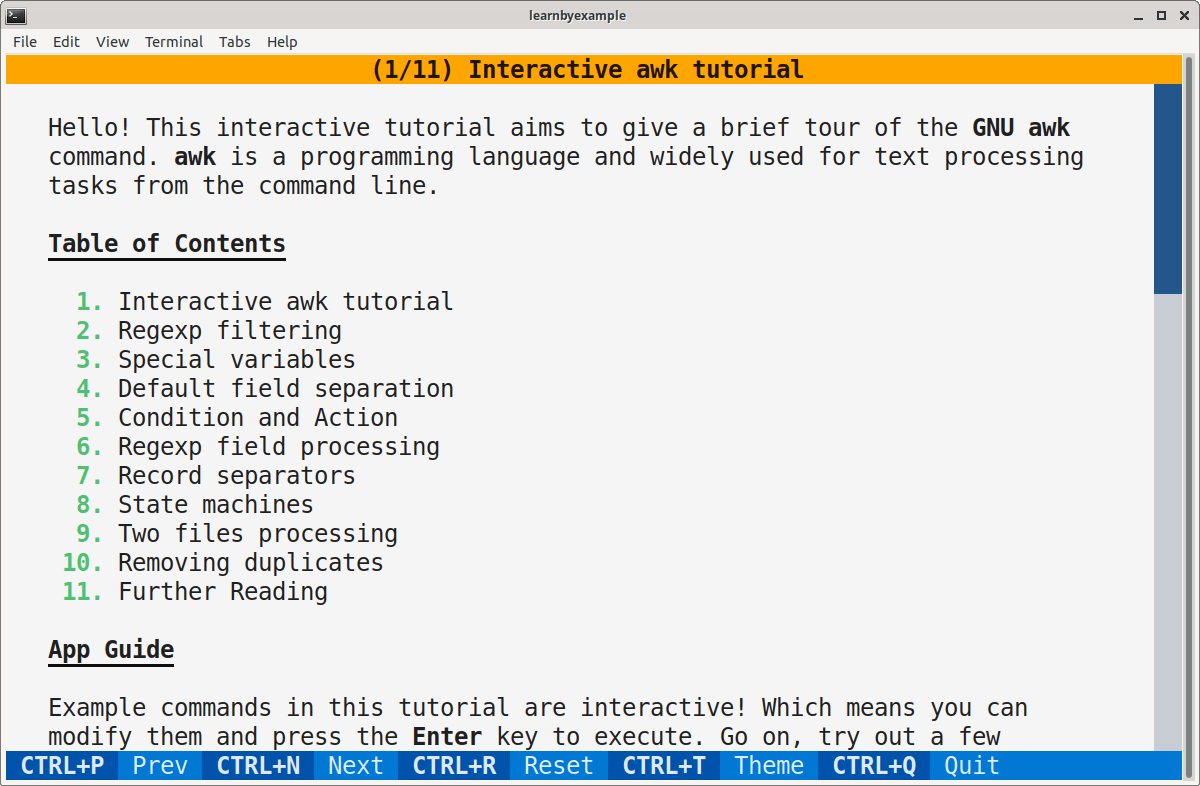
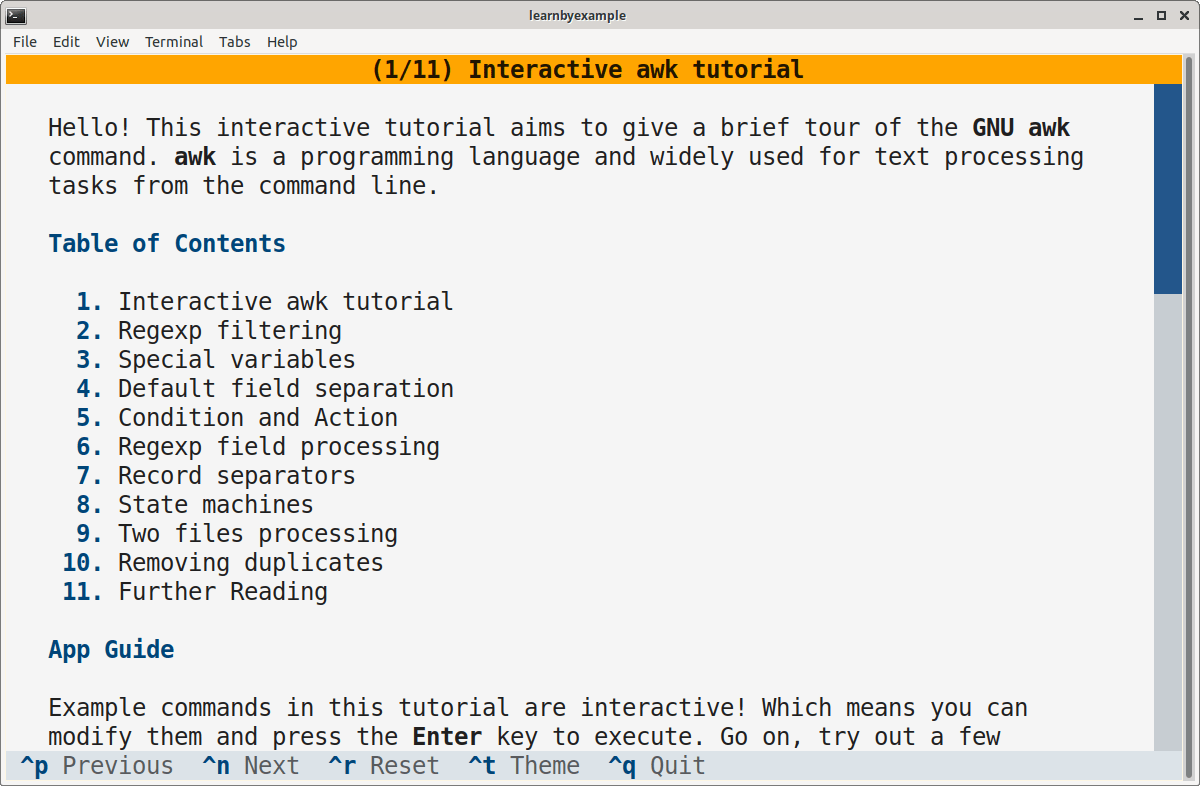
changed dynamic container code to not use mount

diff --git a/AwkTutorial/awk_tutorial.py b/AwkTutorial/awk_tutorial.py
@@ -13,7 +13,7 @@ SCRIPT_DIR = Path(__file__).parent.resolve()
 class AwkTutorialApp(App):
     CSS_PATH = SCRIPT_DIR.joinpath('awk_tutorial.css')
     BINDINGS = [
-        Binding('ctrl+p', 'previous', 'Prev', show=True),
+        Binding('ctrl+p', 'previous', 'Previous', show=True),
         Binding('ctrl+n', 'next', 'Next', show=True),
         Binding('ctrl+r', 'reset', 'Reset', show=True),
         ('ctrl+t', 'toggle_theme', 'Theme'),
@@ -68,44 +68,45 @@ class AwkTutorialApp(App):
 
     def setup_tutorial(self):
         self.v_tutorial.remove()
-        self.v_tutorial = VerticalScroll()
         block = False
         s = ''
         cnt = 0
         self.i_cmds = []
         self.l_cmd_outputs = []
+        tt_widgets = []
         with open(self.tutorial_files[self.idx]) as f:
             title = f'[b]({self.idx+1}/{self.max_idx+1}) {next(f)[2:-1]}'
             self.l_title.update(title)
             for line in f:
                 if line.startswith('```'):
                     if block:
-                        codeblock = Vertical(classes='codeblock')
+                        cb_widgets = []
                         for c in s.splitlines():
                             if c.startswith('#'):
-                                codeblock.mount(Label(c, classes='comment'))
+                                cb_widgets.append(Label(c, classes='comment'))
                             elif c.startswith('$ '):
                                 self.i_cmd = Input(classes='input',
                                                    name=str(cnt))
                                 self.l_cmd_output = Label(classes='cmd_output',
                                                           markup=False)
-                                codeblock.mount(self.i_cmd)
-                                codeblock.mount(self.l_cmd_output)
+                                cb_widgets.append(self.i_cmd)
+                                cb_widgets.append(self.l_cmd_output)
                                 self.i_cmds.append(self.i_cmd)
                                 self.l_cmd_outputs.append(self.l_cmd_output)
                                 self.set_cmd(c[2:])
                                 if cnt == 0:
                                     self.i_cmd.focus()
                                 cnt += 1
-                        self.v_tutorial.mount(codeblock)
+                        tt_widgets.append(Vertical(*cb_widgets, classes='codeblock'))
                     else:
-                        self.v_tutorial.mount(Markdown(s))
+                        tt_widgets.append(Markdown(s))
                     s = ''
                     block ^= True
                     continue
                 s += line
             if s:
-                self.v_tutorial.mount(Markdown(s))
+                tt_widgets.append(Markdown(s))
+        self.v_tutorial = VerticalScroll(*tt_widgets)
         self.v_main.mount(self.v_tutorial)
 
     def set_cmd(self, cmd):

diff --git a/AwkExercises/awk_exercises.py b/AwkExercises/awk_exercises.py
@@ -16,7 +16,7 @@ class AwkExercisesApp(App):
     CSS_PATH = SCRIPT_DIR.joinpath('awk_exercises.css')
     BINDINGS = [
         Binding('ctrl+s', 'show_solution', 'Solution', show=True),
-        Binding('ctrl+p', 'previous', 'Prev', show=True),
+        Binding('ctrl+p', 'previous', 'Previous', show=True),
         Binding('ctrl+n', 'next', 'Next', show=True),
         Binding('f1', 'app_guide', 'App Guide', show=False),
         Binding('f2', 'awk_exercises', 'Awk Exercises', show=False),
@@ -136,26 +136,26 @@ class AwkExercisesApp(App):
         self.ref_solution = self.questions[self.q_idx]['ref_solution']
 
         self.h_ip_op.remove()
-        v_ip = Vertical(classes='ip_op_container')
-        v_op = Vertical(classes='ip_op_container')
         ip_files = self.questions[self.q_idx]['ip_file']
-        if ip_files:
-            self.h_ip_op = Horizontal(v_ip, v_op, classes='container')
-        else:
-            self.h_ip_op = Horizontal(v_op, classes='container')
-        self.v_exercises.mount(self.h_ip_op)
-
+        v_ip_widgets = []
         for ip_file in ip_files:
             with open(ip_file, encoding='ascii') as f:
                 ip_txt = self.trim(f.read())
             l_ip = Label(ip_txt, classes='ip_op', markup=False)
             l_ip.border_title = ip_file
-            v_ip.mount(l_ip)
+            v_ip_widgets.append(l_ip)
 
         self.op_txt = self.trim(self.questions[self.q_idx]['op_file'])
         l_op = Label(self.op_txt, classes='ip_op', markup=False)
         l_op.border_title = 'Expected output'
-        v_op.mount(l_op)
+
+        v_ip = Vertical(*v_ip_widgets, classes='ip_op_container')
+        v_op = Vertical(l_op, classes='ip_op_container')
+        if ip_files:
+            self.h_ip_op = Horizontal(v_ip, v_op, classes='container')
+        else:
+            self.h_ip_op = v_op
+        self.v_exercises.mount(self.h_ip_op)
 
         if self.q_idx in self.user_progress:
             self.set_cmd(self.user_progress[self.q_idx][0])

diff --git a/SedExercises/sed_exercises.py b/SedExercises/sed_exercises.py
@@ -16,7 +16,7 @@ class SedExercisesApp(App):
     CSS_PATH = SCRIPT_DIR.joinpath('sed_exercises.css')
     BINDINGS = [
         Binding('ctrl+s', 'show_solution', 'Solution', show=True),
-        Binding('ctrl+p', 'previous', 'Prev', show=True),
+        Binding('ctrl+p', 'previous', 'Previous', show=True),
         Binding('ctrl+n', 'next', 'Next', show=True),
         Binding('f1', 'app_guide', 'App Guide', show=False),
         Binding('f2', 'sed_exercises', 'Sed Exercises', show=False),
@@ -136,26 +136,26 @@ class SedExercisesApp(App):
         self.ref_solution = self.questions[self.q_idx]['ref_solution']
 
         self.h_ip_op.remove()
-        v_ip = Vertical(classes='ip_op_container')
-        v_op = Vertical(classes='ip_op_container')
         ip_files = self.questions[self.q_idx]['ip_file']
-        if ip_files:
-            self.h_ip_op = Horizontal(v_ip, v_op, classes='container')
-        else:
-            self.h_ip_op = Horizontal(v_op, classes='container')
-        self.v_exercises.mount(self.h_ip_op)
-
+        v_ip_widgets = []
         for ip_file in ip_files:
             with open(ip_file, encoding='ascii') as f:
                 ip_txt = self.trim(f.read())
             l_ip = Label(ip_txt, classes='ip_op', markup=False)
             l_ip.border_title = ip_file
-            v_ip.mount(l_ip)
+            v_ip_widgets.append(l_ip)
 
         self.op_txt = self.trim(self.questions[self.q_idx]['op_file'])
         l_op = Label(self.op_txt, classes='ip_op', markup=False)
         l_op.border_title = 'Expected output'
-        v_op.mount(l_op)
+
+        v_ip = Vertical(*v_ip_widgets, classes='ip_op_container')
+        v_op = Vertical(l_op, classes='ip_op_container')
+        if ip_files:
+            self.h_ip_op = Horizontal(v_ip, v_op, classes='container')
+        else:
+            self.h_ip_op = v_op
+        self.v_exercises.mount(self.h_ip_op)
 
         if self.q_idx in self.user_progress:
             self.set_cmd(self.user_progress[self.q_idx][0])

diff --git a/GrepExercises/grep_exercises.py b/GrepExercises/grep_exercises.py
@@ -16,7 +16,7 @@ class GrepExercisesApp(App):
     CSS_PATH = SCRIPT_DIR.joinpath('grep_exercises.css')
     BINDINGS = [
         Binding('ctrl+s', 'show_solution', 'Solution', show=True),
-        Binding('ctrl+p', 'previous', 'Prev', show=True),
+        Binding('ctrl+p', 'previous', 'Previous', show=True),
         Binding('ctrl+n', 'next', 'Next', show=True),
         Binding('f1', 'app_guide', 'App Guide', show=False),
         Binding('f2', 'grep_exercises', 'Grep Exercises', show=False),
@@ -150,26 +150,26 @@ class GrepExercisesApp(App):
         self.ref_solution = self.questions[self.q_idx]['ref_solution']
 
         self.h_ip_op.remove()
-        v_ip = Vertical(classes='ip_op_container')
-        v_op = Vertical(classes='ip_op_container')
         ip_files = self.questions[self.q_idx]['ip_file']
-        if ip_files:
-            self.h_ip_op = Horizontal(v_ip, v_op, classes='container')
-        else:
-            self.h_ip_op = v_op
-        self.v_exercises.mount(self.h_ip_op)
-
+        v_ip_widgets = []
         for ip_file in ip_files:
             with open(ip_file, encoding='ascii') as f:
                 ip_txt = self.trim(f.read())
             l_ip = Label(ip_txt, classes='ip_op', markup=False)
             l_ip.border_title = ip_file
-            v_ip.mount(l_ip)
+            v_ip_widgets.append(l_ip)
 
         self.op_txt = self.trim(self.questions[self.q_idx]['op_file'])
         l_op = Label(self.op_txt, classes='ip_op', markup=False)
         l_op.border_title = 'Expected output'
-        v_op.mount(l_op)
+
+        v_ip = Vertical(*v_ip_widgets, classes='ip_op_container')
+        v_op = Vertical(l_op, classes='ip_op_container')
+        if ip_files:
+            self.h_ip_op = Horizontal(v_ip, v_op, classes='container')
+        else:
+            self.h_ip_op = v_op
+        self.v_exercises.mount(self.h_ip_op)
 
         if self.q_idx in self.user_progress:
             self.set_cmd(self.user_progress[self.q_idx][0])
